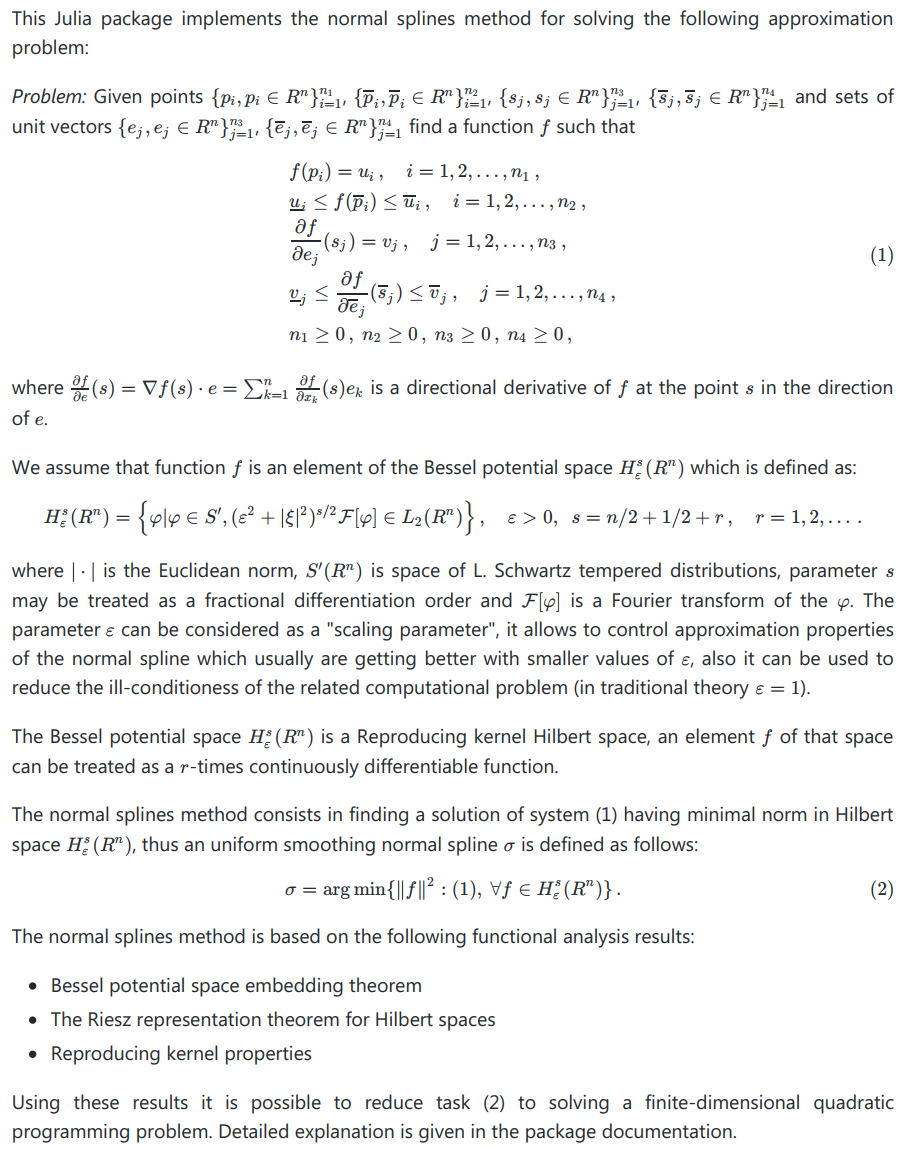
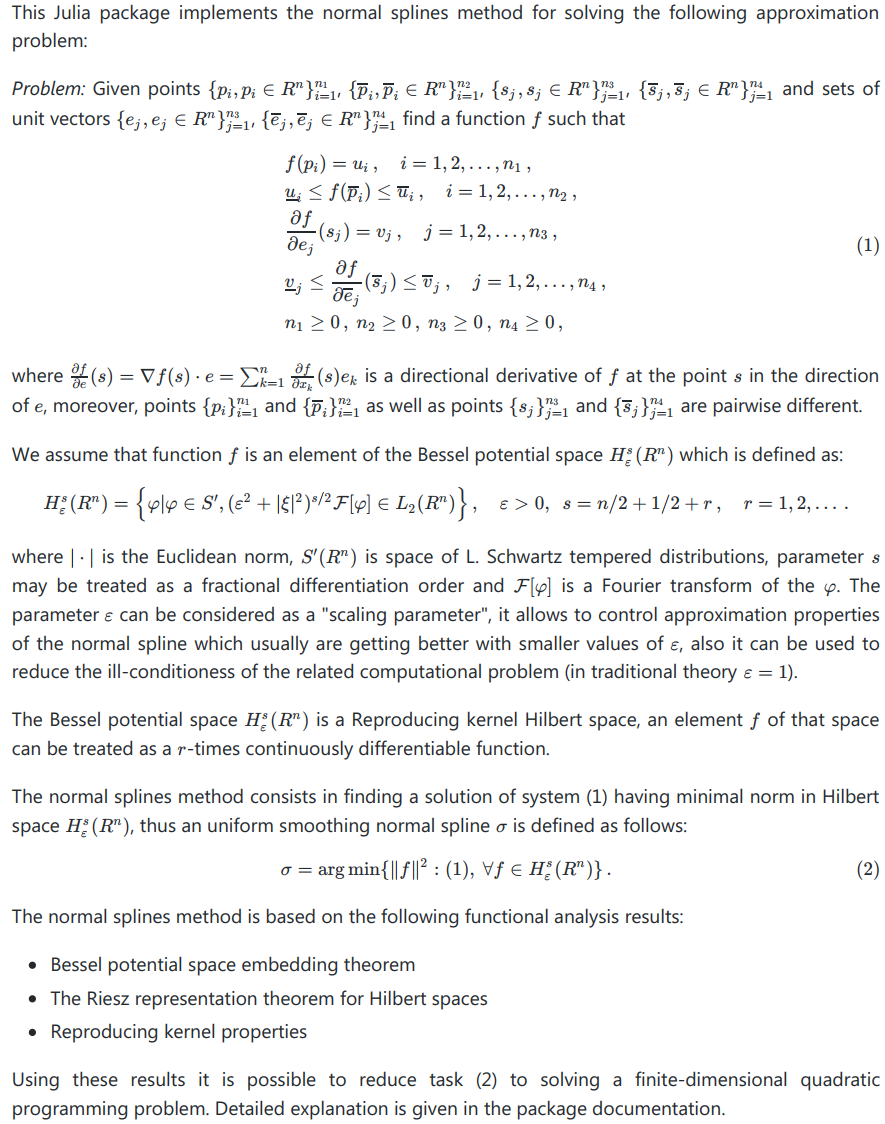
.

diff --git a/docs/src/index.md b/docs/src/index.md
@@ -2,25 +2,29 @@
 Author = "Igor Kohanovsky"
 ```
 
-# NormalHermiteSplines.jl package
+# NormalSmoothingSplines.jl package
 
-*Multivariate Normal Hermite-Birkhoff Interpolating Splines in Julia*
+*Multivariate Normal Hermite-Birkhoff Uniform Smoothing Splines in Julia*
 
-`NormalHermiteSplines.jl` package implements the normal splines method for solving following interpolation problem:
+`NormalSmoothingSplines.jl` implements the normal splines method for solving the following approximation problem:
 
-*Problem:*   Given points ``\{p_i, p_i \in R^n\}_{i=1}^{n_1}``, ``\{s_j, s_j \in R^n\}_{j=1}^{n_2}`` and a set of unit vectors ``\{e_j, e_j \in R^n\}_{j=1}^{n_2}`` find a function ``f`` such that
+*Problem:* Given points ``\{p_i, p_i \in R^n\}_{i=1}^{n_1}``, ``\{\overline p_i, \overline p_i \in R^n\}_{i=1}^{n_2}``, ``\{s_j, s_j \in R^n\}_{j=1}^{n_3}``, ``\{\overline s_j, \overline s_j \in R^n\}_{j=1}^{n_4}`` and sets of unit vectors ``\{e_j, e_j \in R^n\}_{j=1}^{n_3}``, ``\{\overline e_j, \overline e_j \in R^n\}_{j=1}^{n_4}`` find a function ``f`` such that
 
 ```math
 \tag{1}
 \begin{aligned}
 & f(p_i) =  u_i \, , \quad  i = 1, 2, \dots, n_1 \, ,
 \\  
-& \frac{ \partial{f} }{ \partial{e_j} }(s_j) =  v_j \, , \quad  j = 1, 2, \dots, n_2 \, ,
-\\
-& n_1 \gt 0 \, ,  \ \  n_2 \ge 0 \, .
+&  \underline u_i \le f(\overline p_i) \le \overline u_i \, , \quad  i = 1, 2, \dots, n_2 \, ,
+\\  
+& \frac{ \partial{f} }{ \partial{e_j} }(s_j) =  v_j \, , \quad  j = 1, 2, \dots, n_3 \, ,
+\\  
+&  \underline v_j \le \frac{ \partial{f} }{ \partial{\overline e_j} } (\overline s_j) \le \overline v_j \, , \quad  j = 1, 2, \dots, n_4 \, , \\
+& n_1 \ge 0 \, , \  n_2 \ge 0 \, , \ n_3 \ge 0 \, , \  n_4 \ge 0 \, ,
 \end{aligned}
-```
-where ``\frac{ \partial{f} }{ \partial{e_j} }(s_j) = \nabla f(s_j) \cdot e_j = \sum _{k=1}^{n}  \frac{ \partial{f} }{ \partial{x_k} } (s_j) e_{jk}`` is a directional derivative of ``f`` at the point ``s_j`` in the direction of ``e_j``.
+``` 
+where ``\frac{ \partial{f} }{ \partial{e} }(s) = \nabla f(s) \cdot e = \sum _{k=1}^{n}  \frac{ \partial{f} }{ \partial{x_k} } (s) e_{k}`` is a directional derivative of ``f`` at the point ``s`` in the direction of ``e``, moreover, points ``\{p_i\}_{i=1}^{n_1}`` and ``\{\overline p_i\}_{i=1}^{n_2}`` as well as points ``\{s_j\}_{j=1}^{n_3}`` and ``\{\overline s_j\}_{j=1}^{n_4}`` are pairwise different.
+
 
 We assume that function ``f`` is an element of the Bessel potential space ``H^s_\varepsilon (R^n)`` which is defined as:
 
@@ -31,22 +35,22 @@ We assume that function ``f`` is an element of the Bessel potential space ``H^s_
 ```
 where ``| \cdot |`` is the Euclidean norm, ``S'  (R^n)`` is space of L. Schwartz tempered distributions, parameter ``s`` may be treated as a fractional differentiation order and ``\mathcal F [\varphi ]`` is a Fourier transform of the ``\varphi``. The parameter ``\varepsilon`` can be considered as a "scaling parameter", it allows to control approximation properties of the normal spline which usually are getting better with smaller values of ``\varepsilon``, also it can be used to reduce the ill-conditioness of the related computational problem (in traditional theory ``\varepsilon = 1``).
 
-The Bessel potential space ``H^s_\varepsilon (R^n)`` is a Reproducing kernel Hilbert space, an element ``f`` of that space can be treated as a bounded ``r``-times continuously differentiable function.
+The Bessel potential space ``H^s_\varepsilon (R^n)`` is a  Reproducing kernel Hilbert space, an element ``f`` of that space can be treated as a ``r``-times continuously differentiable function.
 
-The normal splines method consists in finding a solution of system (1) having minimal norm in Hilbert space ``H^s_\varepsilon (R^n) ,`` thus an interpolating normal spline ``\sigma`` is defined as follows:
+The normal splines method consists in finding a solution of system (1) having minimal norm in Hilbert space ``H^s_\varepsilon (R^n)``, thus an uniform smoothing normal spline ``\sigma`` is defined as follows:
 
 ```math
 \tag{2}
-   \sigma = {\rm arg\,min}\{  \| f \|^2 : (1), \forall f \in H^s_\varepsilon (R^n) \} \, .
+   \sigma = {\rm arg\,min}\{  \| f \|^2 : (1), \ \forall f \in H^s_\varepsilon (R^n) \} \, .
 ```
 
 The normal splines method is based on the following functional analysis results:
 
 * Bessel potential space embedding theorem
 * The Riesz representation theorem for Hilbert spaces
-* Reproducing kernel properties
+* Reproducing kernel properties 
 
-Using these results it is possible to reduce the task (2) to solving a system of linear equations with symmetric positive definite Gram matrix.
+Using these results it is possible to reduce task (2) to solving a finite-dimensional quadratic programming problem. 
 
 The normal splines method for one-dimensional function interpolation and linear ordinary differential and integral equations was proposed in [1]. An idea of the multivariate splines in Sobolev space was initially formulated in [7], however it was not well-suited to solving real-world problems. Using that idea the multivariate generalization of the normal splines method was developed for two-dimensional problem of low-range computerized tomography in [2] and applied for solving a mathematical economics problem in [3]. At the same time an interpolation scheme with Matérn kernels was developed in [8], this scheme coincides with interpolating normal splines method. Further results related to  applications of the normal splines method were reported at the seminars and conferences [4,5,6]. 
 

diff --git a/images/problem-definition-smoothing.md b/images/problem-definition-smoothing.md
@@ -15,7 +15,7 @@ This Julia package implements the normal splines method for solving the followin
 & n_1 \ge 0 \, , \  n_2 \ge 0 \, , \ n_3 \ge 0 \, , \  n_4 \ge 0 \, ,
 \end{aligned}
 ``` 
-where ``\frac{ \partial{f} }{ \partial{e} }(s) = \nabla f(s) \cdot e = \sum _{k=1}^{n}  \frac{ \partial{f} }{ \partial{x_k} } (s) e_{k}`` is a directional derivative of ``f`` at the point ``s`` in the direction of ``e``.
+where ``\frac{ \partial{f} }{ \partial{e} }(s) = \nabla f(s) \cdot e = \sum _{k=1}^{n}  \frac{ \partial{f} }{ \partial{x_k} } (s) e_{k}`` is a directional derivative of ``f`` at the point ``s`` in the direction of ``e``, moreover, points ``\{p_i\}_{i=1}^{n_1}`` and ``\{\overline p_i\}_{i=1}^{n_2}`` as well as points ``\{s_j\}_{j=1}^{n_3}`` and ``\{\overline s_j\}_{j=1}^{n_4}`` are pairwise different.
 
 We assume that function ``f`` is an element of the Bessel potential space ``H^s_\varepsilon (R^n)`` which is defined as:
 
